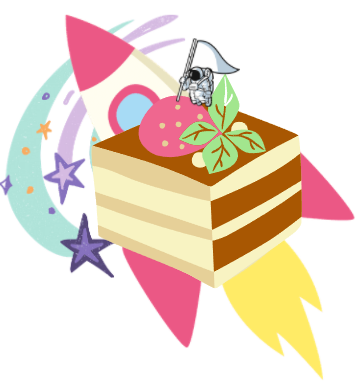
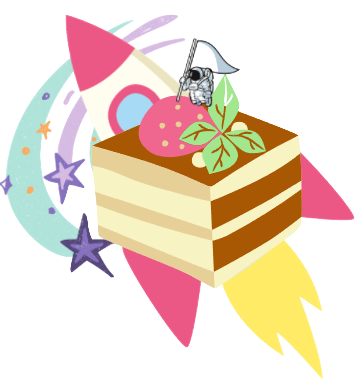
cambio de imagen

Changed region(s): [[0.8296, 0.7755, 0.8603, 0.8042], [0.7682, 0.8616, 0.7989, 0.8903], [0.2765, 0.6893, 0.3073, 0.718]]

diff --git a/Practica_2/Pasteleria.html b/Practica_2/Pasteleria.html
@@ -9,7 +9,7 @@
     
 </head>
 <body>
-    <header><img src="../Recursos/pasteleria_astro.png" alt="Logotipo pasteleria astro" width="125" height="125">
+    <header><img src="../Recursos/pasteleria_astro.png" alt="Logotipo pasteleria astro" width="200" height="200">
         <h1>Realizar pedido</h1>
     </header><hr>
     <section>
